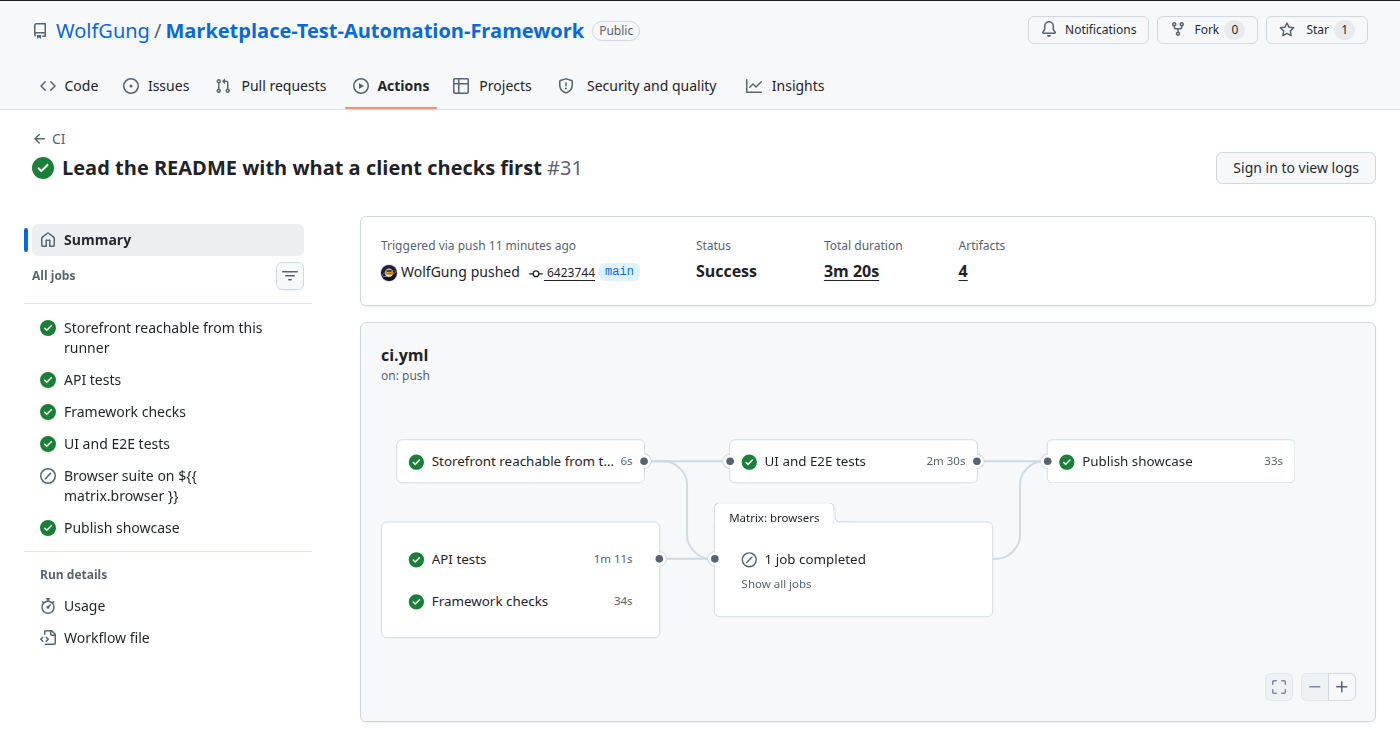
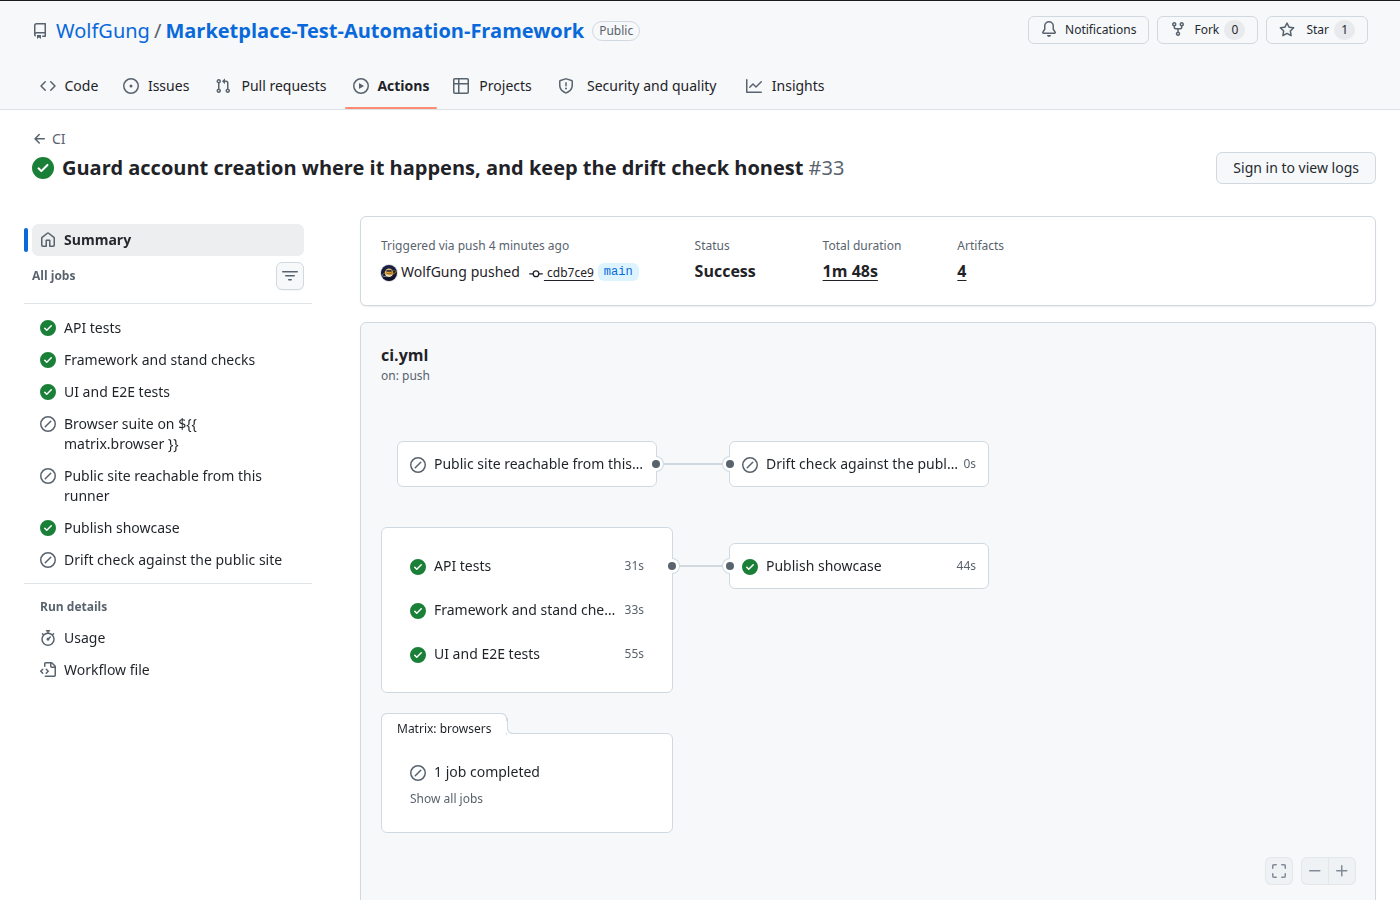
Photograph the first green run of the new pipeline
The picture showed the old job graph, with a probe of the public site
gating the browser suite. This is the run that landed the stand: the API,
framework and browser jobs green against it, the publish step after them,
and the probe, the drift check and the cross-browser matrix skipped on a
push as designed. Eight jobs no longer fit the old 730 px frame, so the
frame and the capture viewport grew and the size pin follows.

diff --git a/scripts/make-assets.py b/scripts/make-assets.py
@@ -97,14 +97,14 @@ CI_RUN_IMAGE = "showcase/images/ci-run.png"
 #: The window the run page is read in. At this width it lays the job graph out
 #: beside the job list, which is the arrangement worth photographing; much
 #: narrower and the graph folds underneath.
-CI_RUN_VIEWPORT = (1400, 900)
+CI_RUN_VIEWPORT = (1400, 1200)
 
 #: What is kept of that window: the run page's own content, starting below the
 #: marketing header a logged-out visitor is served, which says nothing about
 #: this pipeline. The size is fixed so the picture is the same shape every
 #: time and can be pinned; the job icons are checked to be inside it, so a run
 #: that grew another job is a refusal rather than a row sliced in half.
-CI_RUN_SIZE = (1400, 730)
+CI_RUN_SIZE = (1400, 900)
 
 #: What a job icon is allowed to say for the run to be worth photographing.
 #: GitHub writes each job's state into the icon's accessible name, so this is

diff --git a/README.md b/README.md
@@ -32,7 +32,7 @@ Start with the evidence: **[the live Allure report](https://wolfgung.github.io/M
 
 That is the published report, photographed from what is actually on `gh-pages`, and the two empty panels are part of what it says. Categories holds nothing because publication waits for all three test jobs, so the run that publishes is a passing one and has no failures to group; Executors is empty because the pipeline writes no executor file. The trend beside them is real: it carries over from the previous publication on every run.
 
-[![The pipeline's run page on github.com, read logged out: a run of the CI workflow on main under a green check, Status reading Success beside the commit that started it, and its jobs both listed down the side and drawn as a graph — the storefront probe, the API suite, the framework's own checks, the browser suite, the cross-browser job it skipped, and the publish step.](showcase/images/ci-run.png)](https://github.com/WolfGung/Marketplace-Test-Automation-Framework/actions/runs/35781319068)
+[![The pipeline's run page on github.com, read logged out: a run of the CI workflow on main under a green check, Status reading Success beside the commit that started it, and its jobs both listed down the side and drawn as a graph — the API suite, the framework and stand checks and the browser suite, all against the stand and all green; the publish step that waited for them; and, skipped on a push as designed, the cross-browser matrix, the probe of the public site and the drift check that only that probe can start.](showcase/images/ci-run.png)](https://github.com/WolfGung/Marketplace-Test-Automation-Framework/actions/runs/35795572036)
 
 That is the run the CI badge at the top of this page points at, photographed from the public run page by `PYTHONPATH=. python scripts/make-assets.py --only ci-run --ci-run <run url>`, which reads the status off the page and refuses to photograph a run that is not green.
 
